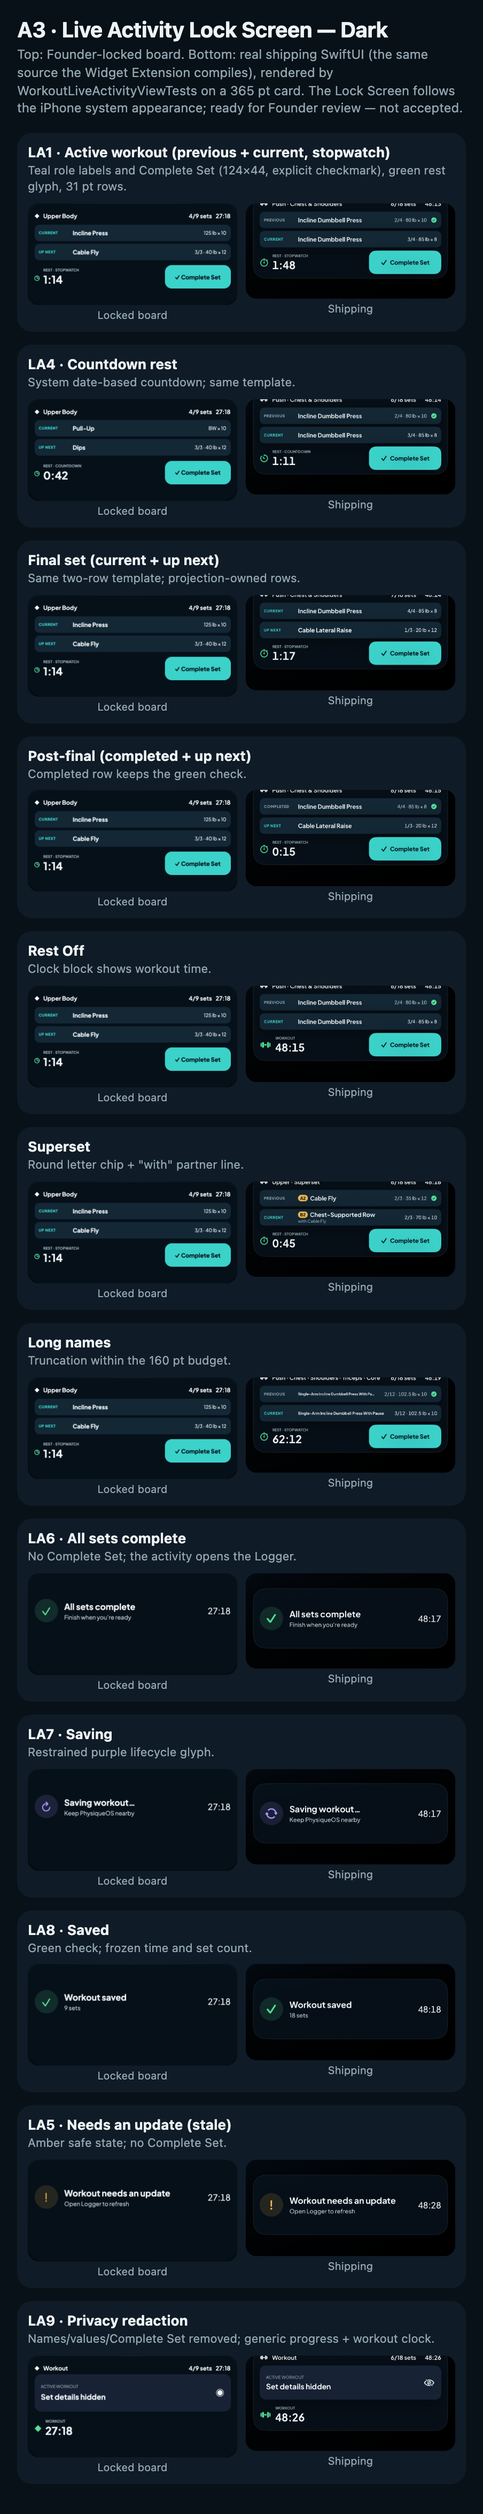
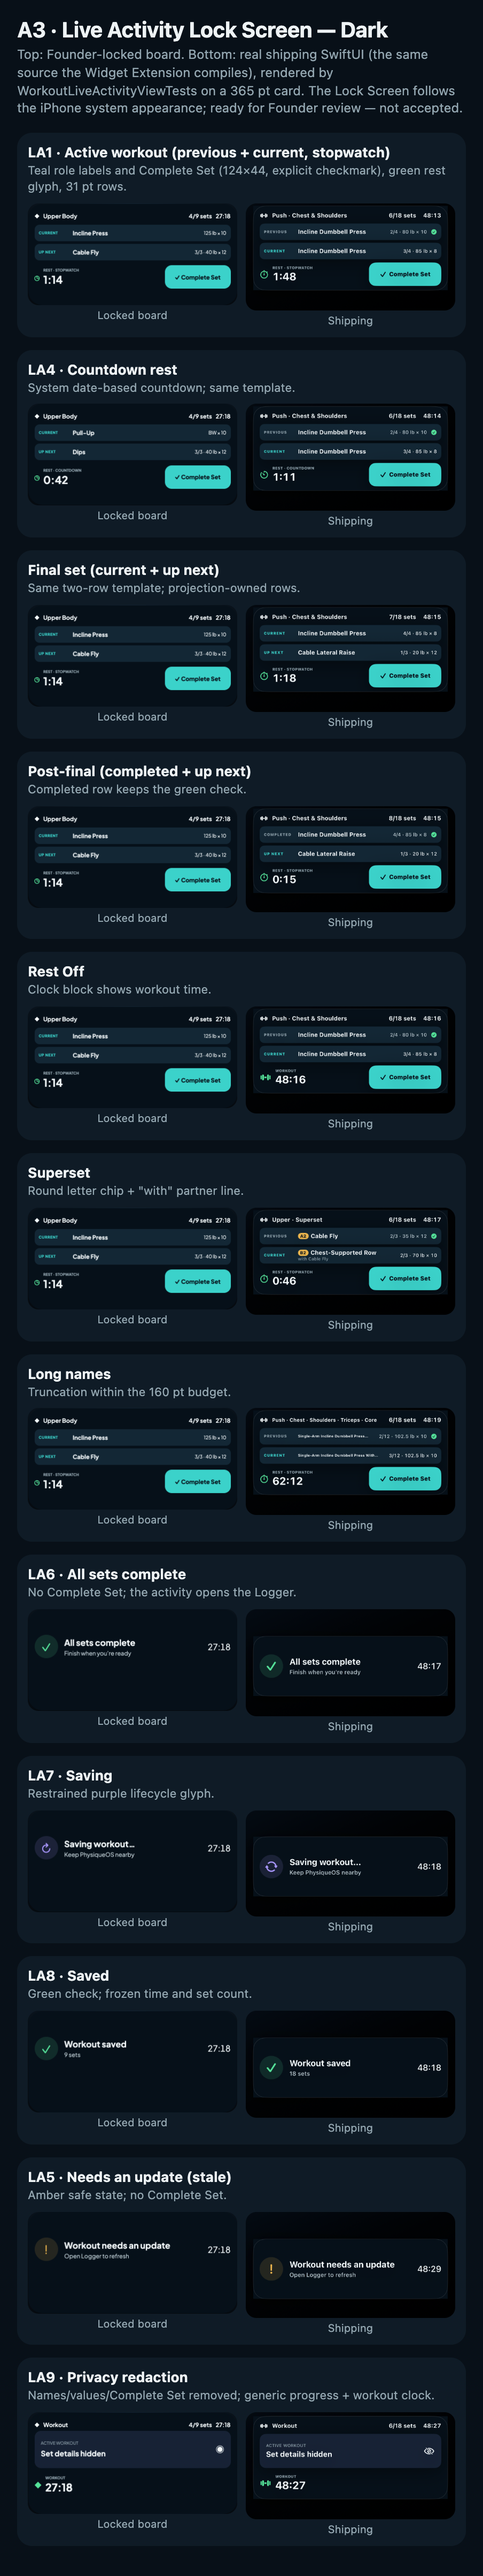
docs(handoff): Overnight Lane A checkpoint A6 integrated regression + refreshed A3/A5 packages (ready for Founder review)
Claude-Session: https://claude.ai/code/session_01AhZbZZh1YQTjZFe1mRmE6K

diff --git a/agent-handoffs/artifacts/overnight-lane-a-cp-a3-live-activity-20261006/README.md b/agent-handoffs/artifacts/overnight-lane-a-cp-a3-live-activity-20261006/README.md
@@ -2,7 +2,7 @@
 
 **Status: ready for Founder review (not accepted).**
 
-- **Code commit:** `461b3651` on `claude/overnight-lane-a-watch-live-priorities-capture-20261006`.
+- **Code commits:** `461b3651`, plus the A6 regression fix `3d112478` on `claude/overnight-lane-a-watch-live-priorities-capture-20261006`.
 - **Base:** Build 88 `7fce3b97`.
 - **Visual authority:** Founder-locked "as presented, no changes" (P:20261004T150500Z / T160500Z).
   - Design package `29d2fe1f`, boards LA1–LA9, both dark and light.
@@ -27,9 +27,9 @@ The 12 Lock Screen states are:
 | Lock Screen tokens | Dark is `#061019` page, `#132735` rows, teal `#3BD2CA` role labels and Complete Set (label `#061019`), green `#55E39A` rest glyph, amber `#EFB84F` needs-update, purple `#AA98FF` saving/reviewing. |
 | Mineral Light tokens | `#E8ECE5` page, `#FBFAF4` rows, teal `#087E78` with a white label, `#16875F`, `#C88228`, `#5C3FD2`, ink `#102431`. |
 | Appearance rule | The Lock Screen follows the **iPhone system appearance** (ActivityKit's own rule). It follows neither the app's iPhone setting nor the Watch preference, as the addendum requires. |
-| Activity tint | `activityBackgroundTint` is dynamic (navy or mineral). |
+| Activity tint | Static navy tint; the Lock Screen draws its own page (navy or mineral) from the system appearance. |
 | Dynamic Island | System black in both appearances, always on the Dark tokens. |
-| Typography | Plus Jakarta Sans, now bundled in the Widget Extension (block `0x1EFF`, `UIAppFonts`). |
+| Typography | **SF system faces** (changed in A6; see below). |
 | Header (20 pt) | Glyph, session label, "6/18 sets", elapsed time, all 11 pt / 650. |
 | Rows | 31 pt rows, 9 pt radius, 57 pt role column at 7 pt / 780 with tracking, 11 pt / 700 name. "n/m · value" at 9 pt. |
 | Clock block | Green glyph, 7 pt label, 20 pt / 700 value. |
@@ -61,3 +61,21 @@ The 12 Lock Screen states are:
 - Every Lock Screen state is checked in **both** appearances against the 160 pt budget, with non-blank renders.
 - A theme test: Dark/Light map to the locked tokens, and the Island stays Dark even in a light environment.
 - Privacy and needs-update renders in Mineral.
+
+## A6 regression fix (`3d112478`): the Live Activity extension crash
+
+The integrated UI gate found that the first A3 build **crashed the PhysiqueOSLiveActivity extension** when a real Live Activity rendered.
+
+- **Crash:** `EXC_BREAKPOINT`, `KEY_TYPE_OF_DICTIONARY_VIOLATES_HASHABLE_REQUIREMENTS` in SwiftUI's `CodableAttributedString` display-list encoder. ActivityKit archives the view, and it cannot archive:
+  - a `UIFont` built from the variable Jakarta font descriptor;
+  - `UIColor`-backed `Color`s.
+- **Fix:**
+  - Live Activity type now uses SF system faces with the same sizes and weights. The utility package allows SF "where Apple owns the surface".
+  - Every Live Activity color is a plain sRGB `Color`.
+  - The Mineral Lock Screen page is drawn by the view instead of a dynamic tint.
+  - Jakarta was removed from the extension target, so generator block `0x1EFF` is Watch-only again (4 pbxproj lines).
+- **Verified:**
+  - `LoggerParityCaptureUITests` CP4 Review / Finish / Complete, plus the 8 Logger journeys that cascaded from it, pass on a freshly erased simulator.
+  - No new extension crash reports.
+  - The boards above are re-rendered with the fix.
+- **Deviation:** the board uses Jakarta, and the shipping Live Activity uses SF. This is a platform constraint.

diff --git a/agent-handoffs/artifacts/overnight-lane-a-cp-a6-final-20261006/README.md b/agent-handoffs/artifacts/overnight-lane-a-cp-a6-final-20261006/README.md
@@ -1,0 +1,47 @@
+# Overnight Lane A — Checkpoint A6: integrated regression and final package
+
+**Status: ready for Founder review (not accepted).**
+
+- **Lane branch:** `claude/overnight-lane-a-watch-live-priorities-capture-20261006`.
+- **Base:** Build 88 `7fce3b97`.
+- **Final code commit:** `3d112478`. The final lane SHA is this package's commit (see the report on main).
+
+## Checkpoint index
+
+| Checkpoint | Package |
+|---|---|
+| A1 + A2: Watch (Dark + Mineral), functional fixes, independent Watch appearance | `../overnight-lane-a-cp-a1-a2-watch-20261006/` |
+| A3: Live Activity and Dynamic Island | `../overnight-lane-a-cp-a3-live-activity-20261006/` |
+| A4: Priority Detail family | `../overnight-lane-a-cp-a4-priority-detail-20261006/` |
+| A5: Morning Check-In, manual weight, Confidence | `../overnight-lane-a-cp-a5-daily-capture-20261006/` |
+
+## Integrated gates on `3d112478`
+
+| Gate | Result |
+|---|---|
+| Full Native unit suite | **2085 / 0 failures** (1 skipped). Build 88 had 2066. |
+| Full iPhone UI suite (65 tests, freshly erased simulator) | **65 / 65.** 64 passed in the full run. `testCorrectedEvidenceJourneys` (DEXA Evidence scroll, untouched by this lane) failed only while machine load was 110–150, and passed when re-run at normal load. It also passed in the earlier full run. |
+| Watch unit suite | **56 / 56.** Build 88 had 49. |
+| Watch UI suite | **6 / 7.** `testFinalSetFinishShowsConfirmationOnThePrimarySurfaceAndNotYetReturns` fails **identically on untouched Build 88**: the fixture has no WCSession, so `requestFinish` fails closed. Pre-existing. |
+| Generic Release build (app, Watch, Widget/Live Activity extension) | BUILD SUCCEEDED. `verify_release_configuration.py` OK (1.0 (88)). |
+| Generator stability | Re-running produces no diff. Block `0x1EFF` holds 4 Watch-only `PBXBuildFile` lines. |
+| Release seam scan | 0 Lane A DEBUG seams in the app, Watch and extension binaries. Plus Jakarta Sans is bundled in the Release Watch app. |
+
+## Regressions this gate caught and fixed (`3d112478`)
+
+1. **Live Activity extension crash (A3).**
+   - ActivityKit could not archive the Jakarta `UIFont` / `UIColor`-backed styling (`CodableAttributedString` encoder trap).
+   - This killed Finish → Complete, and the stranded draft then broke 8 Logger journeys.
+   - **Fixed:** SF system faces, sRGB colors, and the Mineral page drawn by the view.
+   - Verified by `LoggerParity` CP4 and the 8 journeys on an erased simulator, with no new crash reports.
+2. **Manual weight "Today" shortcut lost (A5).**
+   - The compact-picker overlay dropped the shared `DateField` sheet.
+   - **Fixed:** an additive `.capture` style keeps the sheet (graphical picker, Today, Done).
+
+## Not done (by design)
+
+- No build bump.
+- No TestFlight upload.
+- No Server deploy.
+- No merge to release authority.
+- latest.json still points at Build 88.

diff --git a/agent-handoffs/artifacts/overnight-lane-a-cp-a5-daily-capture-20261006/README.md b/agent-handoffs/artifacts/overnight-lane-a-cp-a5-daily-capture-20261006/README.md
@@ -40,7 +40,7 @@ Each row shows the locked board (402 pt, first screen) beside the real shipping 
 - The Sandbox-only recovery and briefing cards are restyled but stay Sandbox-only (the locked Production boundary).
 
 **Manual / backdated weight:**
-- Date measured (system compact picker capped at today, over the locked well).
+- Date measured: the locked well opens the **unchanged shared `DateField` sheet** (graphical picker capped at today, Today and Done) through an additive `.capture` style. The A6 fix `3d112478` restored the Today shortcut after the integrated UI gate caught its loss.
 - Weight plus a 104 pt Unit menu (lb / kg).
 - Save Weight.
 - **Return to Log appears only after a durable save.** The lock says "Success alone reveals Return to Log"; Build 88 also showed it while still reconciling.
